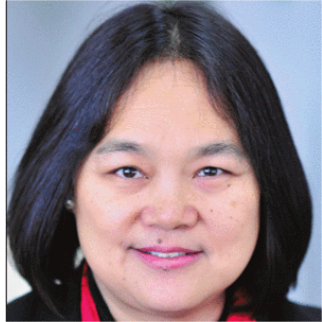
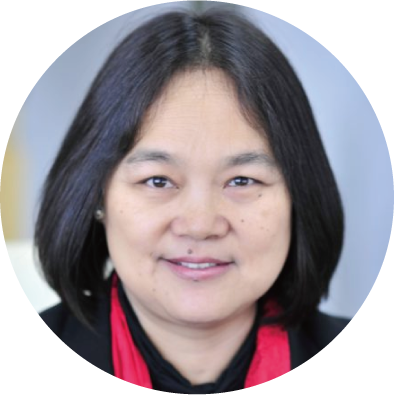
更新所有照片

diff --git a/organizers.php b/organizers.php
@@ -36,7 +36,7 @@ function Nav() {
 		
 	<div class="organizer-group-title">General Chair</div>
 		<div class="flex flex-auto person-container"style="margin-bottom: 20px;margin-top: 20px;">
-			<div class="pic headshot round" style="background:url(images/organizers/liuerwu.jpg);background-size:100px 100px;"></div>
+			<div class="pic headshot round" style="background:url(images/organizers/liuerwu.png);background-size:100px 100px;"></div>
 			<div class="info-container">
 				<div class="name">Erwu Liu</div>
 				<div class="affiliation">Tongji University</div>
@@ -84,7 +84,7 @@ function Nav() {
 		
 		<div class="organizer-group-title">Steering Committee</div>
 		<div class="flex flex-auto person-container"style="margin-bottom: 20px;margin-top: 20px;">
-		<div class="pic headshot round" style="background:url(images/tracks/RameshRamadoss.jpg);background-size:100px 100px;"></div>
+		<div class="pic headshot round" style="background:url(images/organizers/RameshRamadoss.png);background-size:100px 100px;"></div>
 		<div class="info-container">
 			<div class="name">Ramesh Ramadoss</div>
 			<div class="affiliation">Chair, IEEE BCTC</div>
@@ -117,7 +117,7 @@ function Nav() {
 		</div>
 
 		<div class="flex flex-auto person-container"style="margin-bottom: 20px;margin-top: 20px;">
-		<div class="pic headshot round" style="background:url(images/tracks/RobertShorten.jpg);background-size:100px 100px;"></div>
+		<div class="pic headshot round" style="background:url(images/organizers/RobertShorten.png);background-size:100px 100px;"></div>
 		<div class="info-container">
 			<div class="name">Robert Shorten</div>
 			<!--<div class="role bold">Volunteer Chair</div>-->
@@ -126,7 +126,7 @@ function Nav() {
 	</div>
 		
 	<div class="flex flex-auto person-container"style="margin-bottom: 20px;margin-top: 20px;">
-		<div class="pic headshot round" style="background:url(images/tracks/JianmingZhu.jpg);background-size:100px 100px;"></div>
+		<div class="pic headshot round" style="background:url(images//organizers/JianmingZhu.png);background-size:100px 100px;"></div>
 		<div class="info-container">
 			<div class="name">Jianming Zhu</div>
 			<!--<div class="role bold">Volunteer Chair</div>-->
@@ -159,7 +159,7 @@ function Nav() {
 		
 	
     <div class="flex flex-auto person-container"style="margin-bottom: 20px;margin-top: 20px;">
-		<div class="pic headshot round" style="background:url(images/tracks/ZhongChen.jpg);background-size:100px 100px;"></div>
+		<div class="pic headshot round" style="background:url(images/organizers/ZhongChen.png);background-size:100px 100px;"></div>
 		<div class="info-container">
 			<div class="name">Zhong Chen</div>
 			<!--<div class="role bold">Volunteer Chair</div>-->
@@ -220,7 +220,7 @@ function Nav() {
 	<div class="spacer"></div>
 		<div class="organizer-group-title">Publicity Co-Chair</div>
 		<div class="flex flex-auto person-container"style="margin-bottom: 20px;margin-top: 20px;">
-			<div class="pic headshot round" style="background:url(images/organizers/JiaqiYan.jpg);background-size:100px 100px;"></div>
+			<div class="pic headshot round" style="background:url(images/organizers/JiaqiYan.png);background-size:100px 100px;"></div>
 			<div class="info-container">
 				<div class="name">Jiaqi Yan</div>
 				<!-- <div class="role bold">Associate Editor of IEEE IoT Journal</div> -->
@@ -228,7 +228,7 @@ function Nav() {
 			</div>
 		</div>
 		<div class="flex flex-auto person-container"style="margin-bottom: 20px;margin-top: 20px;">
-			<div class="pic headshot round" style="background:url(images/organizers/QianhongWu.jpg);background-size:100px 100px;"></div>
+			<div class="pic headshot round" style="background:url(images/organizers/QianhongWu.png);background-size:100px 100px;"></div>
 			<div class="info-container">
 				<div class="name">Qianhong Wu</div>
 				<!-- <div class="role bold">Associate Editor of IEEE IoT Journal</div> -->
@@ -236,7 +236,7 @@ function Nav() {
 			</div>
 		</div>
 		<div class="flex flex-auto person-container"style="margin-bottom: 20px;margin-top: 20px;">
-			<div class="pic headshot round" style="background:url(images/organizers/XiaoshuaiZhang.jpg);background-size:100px 100px;"></div>
+			<div class="pic headshot round" style="background:url(images/organizers/XiaoshuaiZhang.png);background-size:100px 100px;"></div>
 			<div class="info-container">
 				<div class="name">Xiaoshuai Zhang</div>
 				<!-- <div class="role bold">Associate Editor of IEEE IoT Journal</div> -->
@@ -244,7 +244,7 @@ function Nav() {
 			</div>
 		</div>
 		<div class="flex flex-auto person-container"style="margin-bottom: 20px;margin-top: 20px;">
-			<div class="pic headshot round" style="background:url(images/organizers/YaoSun.jpg);background-size:100px 100px;"></div>
+			<div class="pic headshot round" style="background:url(images/organizers/YaoSun.png);background-size:100px 100px;"></div>
 			<div class="info-container">
 				<div class="name">Yao Sun</div>
 				<!-- <div class="role bold">Associate Editor of IEEE IoT Journal</div> -->
@@ -253,7 +253,7 @@ function Nav() {
 		</div>
 		
 		<div class="flex flex-auto person-container"style="margin-bottom: 20px;margin-top: 20px;">
-			<div class="pic headshot round" style="background:url(images/organizers/YiSun.jpg);background-size:100px 100px;"></div>
+			<div class="pic headshot round" style="background:url(images/organizers/YiSun.png);background-size:100px 100px;"></div>
 			<div class="info-container">
 				<div class="name">Yi Sun</div>
 				<!-- <div class="role bold">Associate Editor of IEEE IoT Journal</div> -->
@@ -274,7 +274,7 @@ function Nav() {
 			</div>
 		</div>
 		<div class="flex flex-auto person-container"style="margin-bottom: 20px;margin-top: 20px;">
-			<div class="pic headshot round" style="background:url(images/organizers/HaibinKan.jpg);background-size:100px 100px;"></div>
+			<div class="pic headshot round" style="background:url(images/organizers/HaibinKan.png);background-size:100px 100px;"></div>
 			<div class="info-container">
 				<div class="name">Haibin Kan</div>
 				<!-- <div class="role bold">Associate Editor of IEEE IoT Journal</div> -->
@@ -282,7 +282,7 @@ function Nav() {
 			</div>
 		</div>
 		<div class="flex flex-auto person-container"style="margin-bottom: 20px;margin-top: 20px;">
-			<div class="pic headshot round" style="background:url(images/organizers/ZhihongTian.jpg);background-size:100px 100px;"></div>
+			<div class="pic headshot round" style="background:url(images/organizers/ZhihongTian.png);background-size:100px 100px;"></div>
 			<div class="info-container">
 				<div class="name">Zhihong Tian</div>
 				<!-- <div class="role bold">Associate Editor of IEEE IoT Journal</div> -->
@@ -294,7 +294,7 @@ function Nav() {
 		<div class="organizer-group-title">Award Chair</div>
 		
 		<div class="flex flex-auto person-container"style="margin-bottom: 20px;margin-top: 20px;">
-			<div class="pic headshot round" style="background:url(images/organizers/XiaosongZhang.jpg);background-size:100px 100px;"></div>
+			<div class="pic headshot round" style="background:url(images/organizers/XiaosongZhang.png);background-size:100px 100px;"></div>
 			<div class="info-container">
 				<div class="name">Xiaosong Zhang</div>
 				<!-- <div class="role bold">Associate Editor of IEEE IoT Journal</div> -->
@@ -306,7 +306,7 @@ function Nav() {
 		<div class="organizer-group-title">Tutorial Chair</div>
 		
 		<div class="flex flex-auto person-container"style="margin-bottom: 20px;margin-top: 20px;">
-			<div class="pic headshot round" style="background:url(images/organizers/YanZhang.jpg);background-size:100px 100px;"></div>
+			<div class="pic headshot round" style="background:url(images/organizers/YanZhang.png);background-size:100px 100px;"></div>
 			<div class="info-container">
 				<div class="name">Yan Zhang</div>
 				<!-- <div class="role bold">Associate Editor of IEEE IoT Journal</div> -->
@@ -316,7 +316,7 @@ function Nav() {
 		<div class="organizer-group-title">Workshop Chair</div>
 		
 		<div class="flex flex-auto person-container"style="margin-bottom: 20px;margin-top: 20px;">
-			<div class="pic headshot round" style="background:url(images/organizers/BinCao.jpg);background-size:100px 100px;"></div>
+			<div class="pic headshot round" style="background:url(images/organizers/BinCao.png);background-size:100px 100px;"></div>
 			<div class="info-container">
 				<div class="name">Bin Cao</div>
 				<div class="affiliation">Beijing University of Posts and Telecommunications</div>
@@ -330,21 +330,21 @@ function Nav() {
 			</div>
 		</div>
 		<div class="flex flex-auto person-container"style="margin-bottom: 20px;margin-top: 20px;">
-			<div class="pic headshot round" style="background:url(images/organizers/HamedAhmadi.jpg);background-size:100px 100px;"></div>
+			<div class="pic headshot round" style="background:url(images/organizers/HamedAhmadi.png);background-size:100px 100px;"></div>
 			<div class="info-container">
 				<div class="name">Hamed Ahmadi</div>
 				<div class="affiliation">University of York</div>
 			</div>
 		</div>
 		<div class="flex flex-auto person-container"style="margin-bottom: 20px;margin-top: 20px;">
-			<div class="pic headshot round" style="background:url(images/organizers/JiahengWang.jpg);background-size:100px 100px;"></div>
+			<div class="pic headshot round" style="background:url(images/organizers/JiahengWang.png);background-size:100px 100px;"></div>
 			<div class="info-container">
 				<div class="name">Jiaheng Wang</div>
 				<div class="affiliation">Southeast University</div>
 			</div>
 		</div>
 		<div class="flex flex-auto person-container"style="margin-bottom: 20px;margin-top: 20px;">
-			<div class="pic headshot round" style="background:url(images/organizers/ShengliZhang.jpg);background-size:100px 100px;"></div>
+			<div class="pic headshot round" style="background:url(images/organizers/ShengliZhang.png);background-size:100px 100px;"></div>
 			<div class="info-container">
 				<div class="name">Shengli Zhang</div>
 				<div class="affiliation">Shenzhen University</div>
@@ -353,7 +353,7 @@ function Nav() {
 		
 		<div class="organizer-group-title">Volunteer</div>
 		<div class="flex flex-auto person-container"style="margin-bottom: 20px;margin-top: 20px;">
-		<div class="pic headshot round" style="background:url(images/organizers/RuiWang.jpg);background-size:100px 100px;"></div>
+		<div class="pic headshot round" style="background:url(images/organizers/RuiWang.png);background-size:100px 100px;"></div>
 		<div class="info-container">
 			<div class="name">Rui Wang</div>
 			<!--<div class="role bold">Volunteer Chair</div>-->
@@ -363,7 +363,7 @@ function Nav() {
     
 
     <div class="flex flex-auto person-container"style="margin-bottom: 20px;margin-top: 20px;">
-		<div class="pic headshot round" style="background:url(images/organizers/XiaoWu.jpg);background-size:100px 100px;"></div>
+		<div class="pic headshot round" style="background:url(images/organizers/XiaoWu.png);background-size:100px 100px;"></div>
 		<div class="info-container">
 			<div class="name"> Xiao Wu</div>
 			<div class="affiliation">Ethereum Riyadh Community</div>
@@ -372,7 +372,7 @@ function Nav() {
 		
 		<div class="organizer-group-title">Coordinator & TPC Vice chair for EDAS</div>
 		<div class="flex flex-auto person-container"style="margin-bottom: 20px;margin-top: 20px;">
-			<div class="pic headshot round" style="background:url(images/organizers/HaoXu.jpg);background-size:100px 100px;"></div>
+			<div class="pic headshot round" style="background:url(images/organizers/HaoXu.png);background-size:100px 100px;"></div>
 			<div class="info-container">
 				<div class="name">Hao Xu</div>
 				<!--<div class="role bold">Coordinator & TPe Vice chair for EDAS</div>-->

diff --git a/TPC.php b/TPC.php
@@ -91,7 +91,7 @@ function Nav() {
 		</div>
 	</div>
 	<div class="flex flex-auto person-container"style="margin-bottom: 20px;margin-top: 20px;">
-		<div class="pic headshot round" style="background:url(images/tracks/SisiDuan.jpg);background-size:100px 100px;"></div>
+		<div class="pic headshot round" style="background:url(images/tracks/SisiDuan.png);background-size:100px 100px;"></div>
 		<div class="info-container">
 			<div class="name">Sisi Duan</div>
 			<div class="role bold"></div>
@@ -107,7 +107,7 @@ function Nav() {
 		</div>
 	</div> 
 	<div class="flex flex-auto person-container"style="margin-bottom: 20px;margin-top: 20px;">
-		<div class="pic headshot round" style="background:url(images/tracks/LiehuangZhu.jpg);background-size:100px 100px;"></div>
+		<div class="pic headshot round" style="background:url(images/tracks/LiehuangZhu.png);background-size:100px 100px;"></div>
 		<div class="info-container">
 			<div class="name">Liehuang Zhu</div>
 			<div class="role bold"></div>
@@ -118,7 +118,7 @@ function Nav() {
 
 	<div class="organizer-track-title">Track 2: Blockchain for Real-World Applications</div>
 	<div class="flex flex-auto person-container"style="margin-bottom: 20px;margin-top: 20px;">
-		<div class="pic headshot round" style="background:url(images/tracks/AshishKundu.jpg);background-size:100px 100px;"></div>
+		<div class="pic headshot round" style="background:url(images/tracks/AshishKundu.png);background-size:100px 100px;"></div>
 		<div class="info-container">
 			<div class="name">Ashish Kundu</div>
 			<div class="role bold">IEEE Fellow</div>
@@ -126,7 +126,7 @@ function Nav() {
 		</div>
 	</div>
 	<div class="flex flex-auto person-container"style="margin-bottom: 20px;margin-top: 20px;">
-		<div class="pic headshot round" style="background:url(images/tracks/JieLi.jpg);background-size:100px 100px;"></div>
+		<div class="pic headshot round" style="background:url(images/tracks/JieLi.png);background-size:100px 100px;"></div>
 		<div class="info-container">
 			<div class="name">Jie Li</div>
 			<div class="role bold">IEEE Fellow</div>
@@ -134,7 +134,7 @@ function Nav() {
 		</div>
 	</div>
 	<div class="flex flex-auto person-container"style="margin-bottom: 20px;margin-top: 20px;">
-		<div class="pic headshot round" style="background:url(images/tracks/KeqiuLi.jpg);background-size:100px 100px;"></div>
+		<div class="pic headshot round" style="background:url(images/tracks/KeqiuLi.png);background-size:100px 100px;"></div>
 		<div class="info-container">
 			<div class="name">Keqiu Li</div>
 			<div class="role bold">IEEE Fellow</div>
@@ -142,7 +142,7 @@ function Nav() {
 		</div>
 	</div>
 	 <div class="flex flex-auto person-container"style="margin-bottom: 20px;margin-top: 20px;">
-		<div class="pic headshot round" style="background:url(images/tracks/JiangXiao.jpg);background-size:100px 100px;"></div>
+		<div class="pic headshot round" style="background:url(images/tracks/JiangXiao.png);background-size:100px 100px;"></div>
 		<div class="info-container">
 			<div class="name">Jiang Xiao</div>
 			<div class="role bold"></div>
@@ -180,7 +180,7 @@ function Nav() {
 		</div>
 	</div>
 	<div class="flex flex-auto person-container"style="margin-bottom: 20px;margin-top: 20px;">
-		<div class="pic headshot round" style="background:url(images/tracks/YinqianZhang.jpg);background-size:100px 100px;"></div>
+		<div class="pic headshot round" style="background:url(images/tracks/YinqianZhang.png);background-size:100px 100px;"></div>
 		<div class="info-container">
 			<div class="name">Yinqian Zhang</div>
 			<div class="role bold"></div>
@@ -193,7 +193,7 @@ function Nav() {
 	<div class="organizer-track-title">Track 4: Communications Network Infrastructures & DePIN</div>
 		
 	<div class="flex flex-auto person-container"style="margin-bottom: 20px;margin-top: 20px;">
-		<div class="pic headshot round" style="background:url(images/tracks/MauroConti.jpg);background-size:100px 100px;"></div>
+		<div class="pic headshot round" style="background:url(images/tracks/MauroConti.png);background-size:100px 100px;"></div>
 		<div class="info-container">
 			<div class="name">Mauro Conti</div>
 			<div class="role bold">IEEE Fellow, EiC of IEEE TIFS</div>
@@ -201,7 +201,7 @@ function Nav() {
 		</div>
 	</div>
 	<div class="flex flex-auto person-container"style="margin-bottom: 20px;margin-top: 20px;">
-		<div class="pic headshot round" style="background:url(images/tracks/SchahramDustdar.jpg);background-size:100px 100px;"></div>
+		<div class="pic headshot round" style="background:url(images/tracks/SchahramDustdar.png);background-size:100px 100px;"></div>
 		<div class="info-container">
 			<div class="name">Schahram Dustdar</div>
 			<div class="role bold">IEEE Fellow</div>
@@ -210,7 +210,7 @@ function Nav() {
 	</div>
 	
 	<div class="flex flex-auto person-container"style="margin-bottom: 20px;margin-top: 20px;">
-		<div class="pic headshot round" style="background:url(images/tracks/SongGuo.jpg);background-size:100px 100px;"></div>
+		<div class="pic headshot round" style="background:url(images/tracks/SongGuo.png);background-size:100px 100px;"></div>
 		<div class="info-container">
 			<div class="name">Song Guo</div>
 			<div class="role bold">IEEE Fellow</div>
@@ -218,7 +218,7 @@ function Nav() {
 		</div>
 	</div>
 	<div class="flex flex-auto person-container"style="margin-bottom: 20px;margin-top: 20px;">
-		<div class="pic headshot round" style="background:url(images/tracks/XiapuLuo.jpg);background-size:100px 100px;"></div>
+		<div class="pic headshot round" style="background:url(images/tracks/XiapuLuo.png);background-size:100px 100px;"></div>
 		<div class="info-container">
 			<div class="name">Daniel Xiapu Luo</div>
 			<div class="role bold"></div>
@@ -231,7 +231,7 @@ function Nav() {
 	<div class="organizer-track-title">Track 5: Integration of Blockchain, Data Elements & AI</div> 
 
 	<div class="flex flex-auto person-container"style="margin-bottom: 20px;margin-top: 20px;">
-		<div class="pic headshot round" style="background:url(images/tracks/LinWilliamCong.jpg);background-size:100px 100px;"></div>
+		<div class="pic headshot round" style="background:url(images/tracks/LinWilliamCong.png);background-size:100px 100px;"></div>
 		<div class="info-container">
 			<div class="name">Lin William Cong</div>
 			<div class="role bold"></div>
@@ -240,7 +240,7 @@ function Nav() {
 		</div>
 	</div>
 	<div class="flex flex-auto person-container"style="margin-bottom: 20px;margin-top: 20px;">
-		<div class="pic headshot round" style="background:url(images/tracks/HuaweiHuang.jpg);background-size:100px 100px;"></div>
+		<div class="pic headshot round" style="background:url(images/tracks/HuaweiHuang.png);background-size:100px 100px;"></div>
 		<div class="info-container">
 			<div class="name">Huawei Huang</div>
 			<div class="role bold"></div>
@@ -256,7 +256,7 @@ function Nav() {
 		</div>
 	</div>
 	<div class="flex flex-auto person-container"style="margin-bottom: 20px;margin-top: 20px;">
-		<div class="pic headshot round" style="background:url(images/tracks/BinXiao.jpg);background-size:100px 100px;"></div>
+		<div class="pic headshot round" style="background:url(images/tracks/BinXiao.png);background-size:100px 100px;"></div>
 		<div class="info-container">
 			<div class="name">Bin Xiao</div>
 			<div class="role bold">IEEE Fellow</div>
@@ -271,7 +271,7 @@ function Nav() {
 	<div class="organizer-track-title">Track 6: Blockchain for Web 3.0 & Metaverse Ecosystems</div> 
 
 	<div class="flex flex-auto person-container"style="margin-bottom: 20px;margin-top: 20px;">
-		<div class="pic headshot round" style="background:url(images/tracks/XiuzhenCheng.jpg);background-size:100px 100px;"></div>
+		<div class="pic headshot round" style="background:url(images/tracks/XiuzhenCheng.png);background-size:100px 100px;"></div>
 		<div class="info-container">
 			<div class="name">Xiuzhen Cheng</div>
 			<div class="role bold">IEEE Fellow</div>
@@ -279,7 +279,7 @@ function Nav() {
 		</div>
 	</div>
 	<div class="flex flex-auto person-container"style="margin-bottom: 20px;margin-top: 20px;">
-		<div class="pic headshot round" style="background:url(images/tracks/KonstantinosStylianou.jpg);background-size:100px 100px;"></div>
+		<div class="pic headshot round" style="background:url(images/tracks/KonstantinosStylianou.png);background-size:100px 100px;"></div>
 		<div class="info-container">
 			<div class="name">Konstantinos Stylianou</div>
 			<div class="role bold"></div>
@@ -287,7 +287,7 @@ function Nav() {
 		</div>
 	</div> 
 	<div class="flex flex-auto person-container"style="margin-bottom: 20px;margin-top: 20px;">
-		<div class="pic headshot round" style="background:url(images/tracks/WeiWang.jpg);background-size:100px 100px;"></div>
+		<div class="pic headshot round" style="background:url(images/tracks/WeiWang.png);background-size:100px 100px;"></div>
 		<div class="info-container">
 			<div class="name">Wei Wang</div>
 			<div class="role bold"></div>

diff --git a/Steering.php b/Steering.php
@@ -47,7 +47,7 @@ function Nav() {
 		</div>
 	</div>
 	<div class="flex flex-auto person-container"style="margin-bottom: 20px;margin-top: 20px;">
-		<div class="pic headshot round" style="background:url(images/tracks/JianmingZhu.jpg);background-size:100px 100px;"></div>
+		<div class="pic headshot round" style="background:url(images/organizers/JianmingZhu.png);background-size:100px 100px;"></div>
 		<div class="info-container">
 			<div class="name">Jianming Zhu</div>
 			<!--<div class="role bold">Volunteer Chair</div>-->
@@ -69,14 +69,14 @@ function Nav() {
 		</div>
 	</div>
 	<div class="flex flex-auto person-container"style="margin-bottom: 20px;margin-top: 20px;">
-		<div class="pic headshot round" style="background:url(images/tracks/RameshRamadoss.jpg);background-size:100px 100px;"></div>
+		<div class="pic headshot round" style="background:url(images/organizers/RameshRamadoss.png);background-size:100px 100px;"></div>
 		<div class="info-container">
 			<div class="name">Ramesh Ramadoss</div>
 			<div class="affiliation">Chair, IEEE BCTC</div>
 		</div>
 	</div>
 	<div class="flex flex-auto person-container"style="margin-bottom: 20px;margin-top: 20px;">
-		<div class="pic headshot round" style="background:url(images/tracks/RobertShorten.jpg);background-size:100px 100px;"></div>
+		<div class="pic headshot round" style="background:url(images/organizers/RobertShorten.png);background-size:100px 100px;"></div>
 		<div class="info-container">
 			<div class="name">Robert Shorten</div>
 			<!--<div class="role bold">Volunteer Chair</div>-->
@@ -102,7 +102,7 @@ function Nav() {
 			</div>
 		</div>
     <div class="flex flex-auto person-container"style="margin-bottom: 20px;margin-top: 20px;">
-		<div class="pic headshot round" style="background:url(images/tracks/ZhongChen.jpg);background-size:100px 100px;"></div>
+		<div class="pic headshot round" style="background:url(images/organizers/ZhongChen.png);background-size:100px 100px;"></div>
 		<div class="info-container">
 			<div class="name">Zhong Chen</div>
 			<!--<div class="role bold">Volunteer Chair</div>-->

diff --git a/header-left-bar.php b/header-left-bar.php
@@ -120,10 +120,10 @@ $json = json_decode(file_get_contents('configuration/config.json'), true);
 		
 	<div id="content-container" class="flex flex-auto flex-space-between">
 			<div id=left-bar-container class="flex flex-auto col-2">
-				<ul class="left-bar list-reset" style="">
+				<ul class="left-bar list-reset" >
 
 
-					<div class="close-header"><a href="#" style="color:white;width:0;height:0;border-top:40px border-bottom: 40px solid transparent;border-left: 40px solid #191970;"><i class="fa fa-2x fa-arrow-circle-left" aria-hidden="true"></i></a></div>
+					<div class="close-header"><a href="#" style="color:white;width:0;height:0;border-top:40px; border-bottom: 40px solid transparent;border-left: 40px solid #191970; "><i class="fa fa-2x fa-arrow-circle-left" aria-hidden="true"></i></a></div>
 				
 				
 					<li name="home"><a href="index.php"><i class="fa fa-lg fa-home fa-fw" aria-hidden="true"></i>HOME</a></li>
